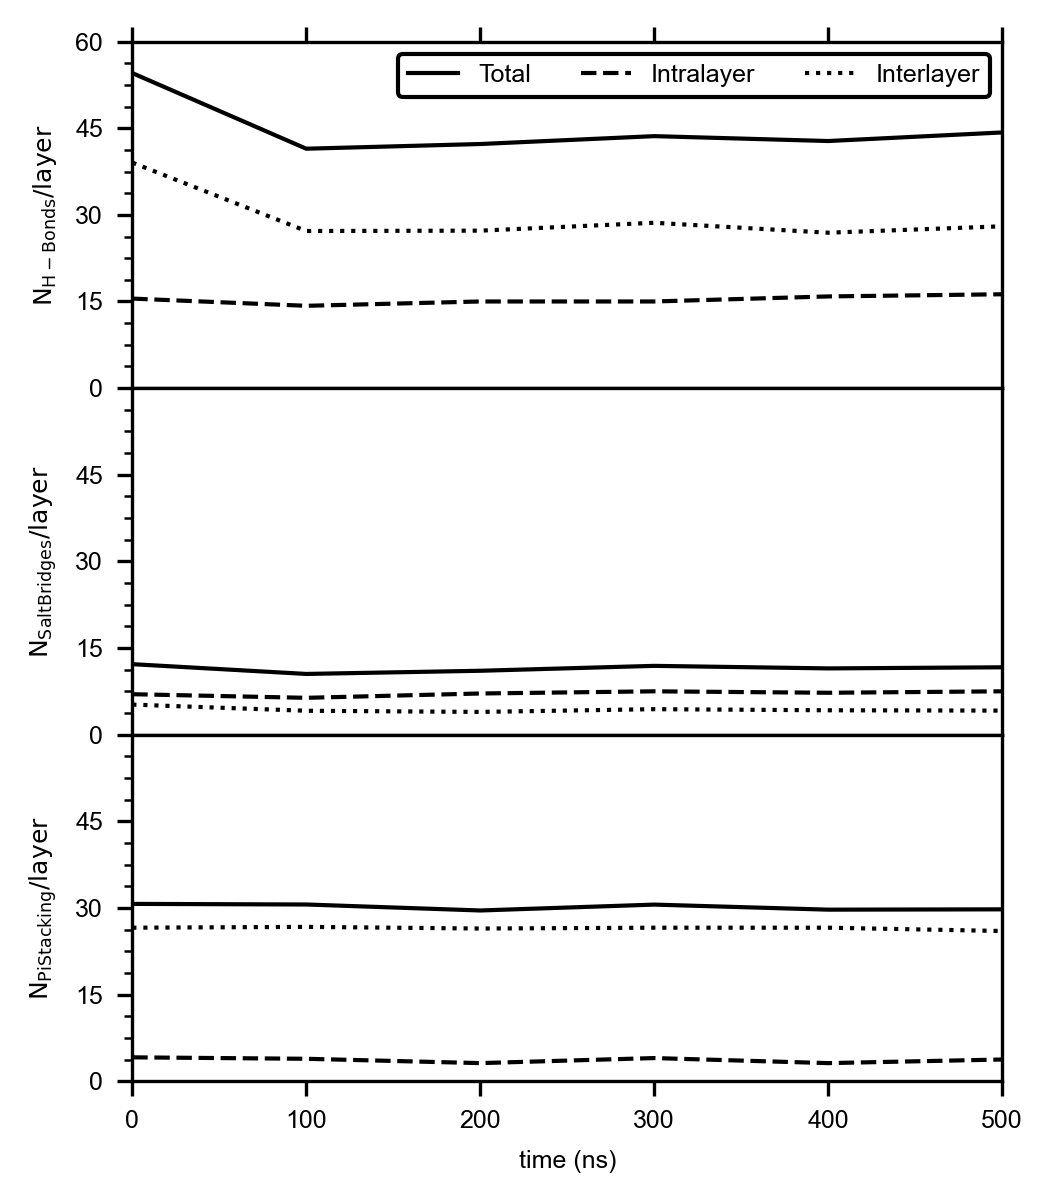
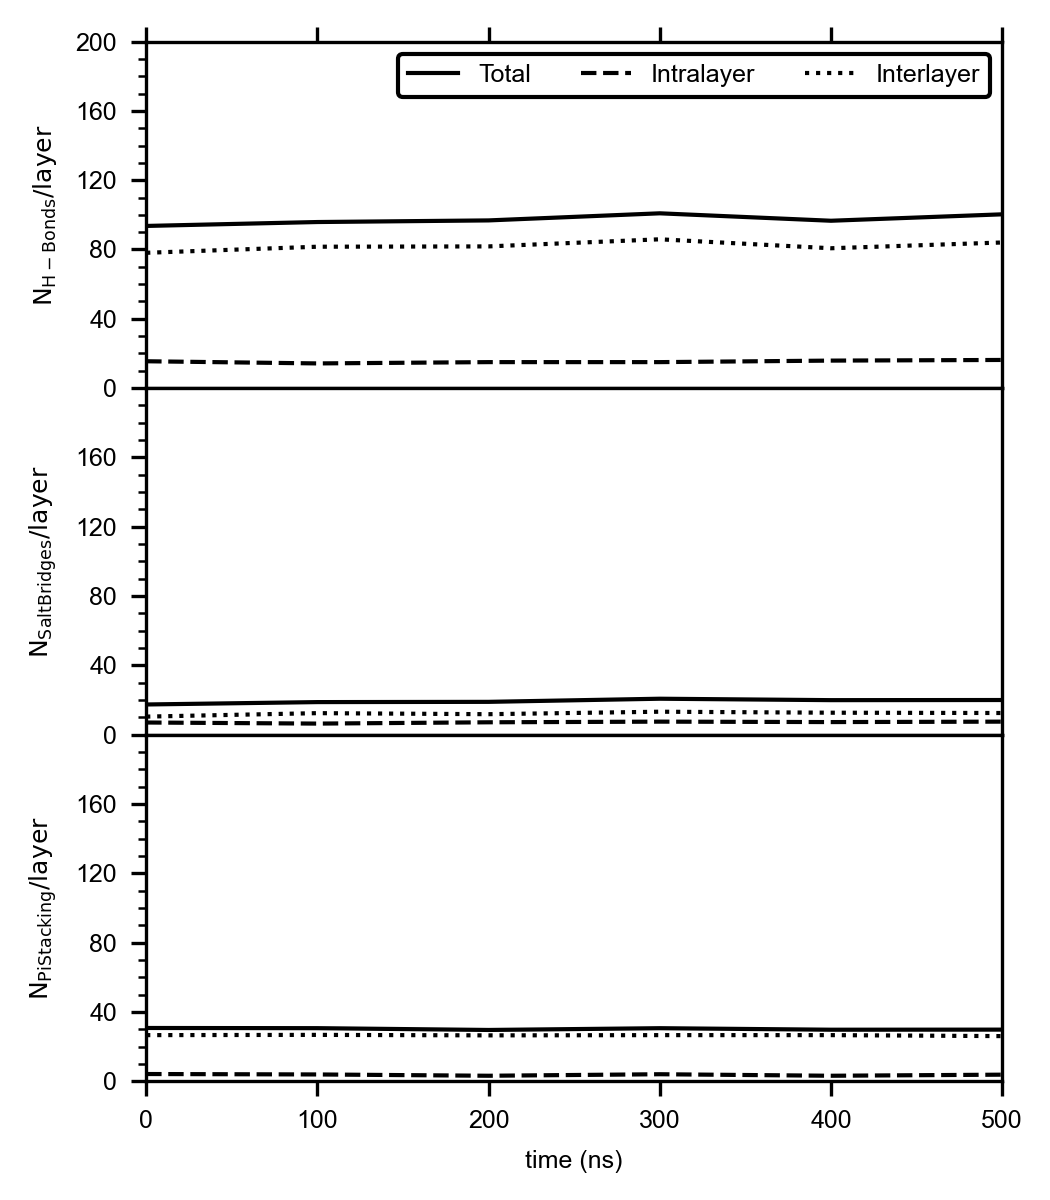
traj module fixes

diff --git a/src/traj.py b/src/traj.py
@@ -112,9 +112,9 @@ class TrajectoryAnalysis:
 
         bins = np.arange(0, self.__n_frames+1)-0.5
         sel_intra = unique_interactions[:,-1] == 0
-        self.n_intralayer[typename], _, _ = binned_statistic(unique_interactions[sel_intra,0], weighted_counts[sel_intra], bins=bins)
+        self.n_intralayer[typename], _, _ = binned_statistic(unique_interactions[sel_intra,0], weighted_counts[sel_intra], statistic='sum', bins=bins)
         sel_inter = unique_interactions[:,-1] == 1
-        self.n_interlayer[typename], _, _ = binned_statistic(unique_interactions[sel_inter,0], weighted_counts[sel_inter], bins=bins)
+        self.n_interlayer[typename], _, _ = binned_statistic(unique_interactions[sel_inter,0], weighted_counts[sel_inter], statistic='sum', bins=bins)
 
         self.n_total[typename] = self.n_intralayer[typename]+self.n_interlayer[typename]
 
